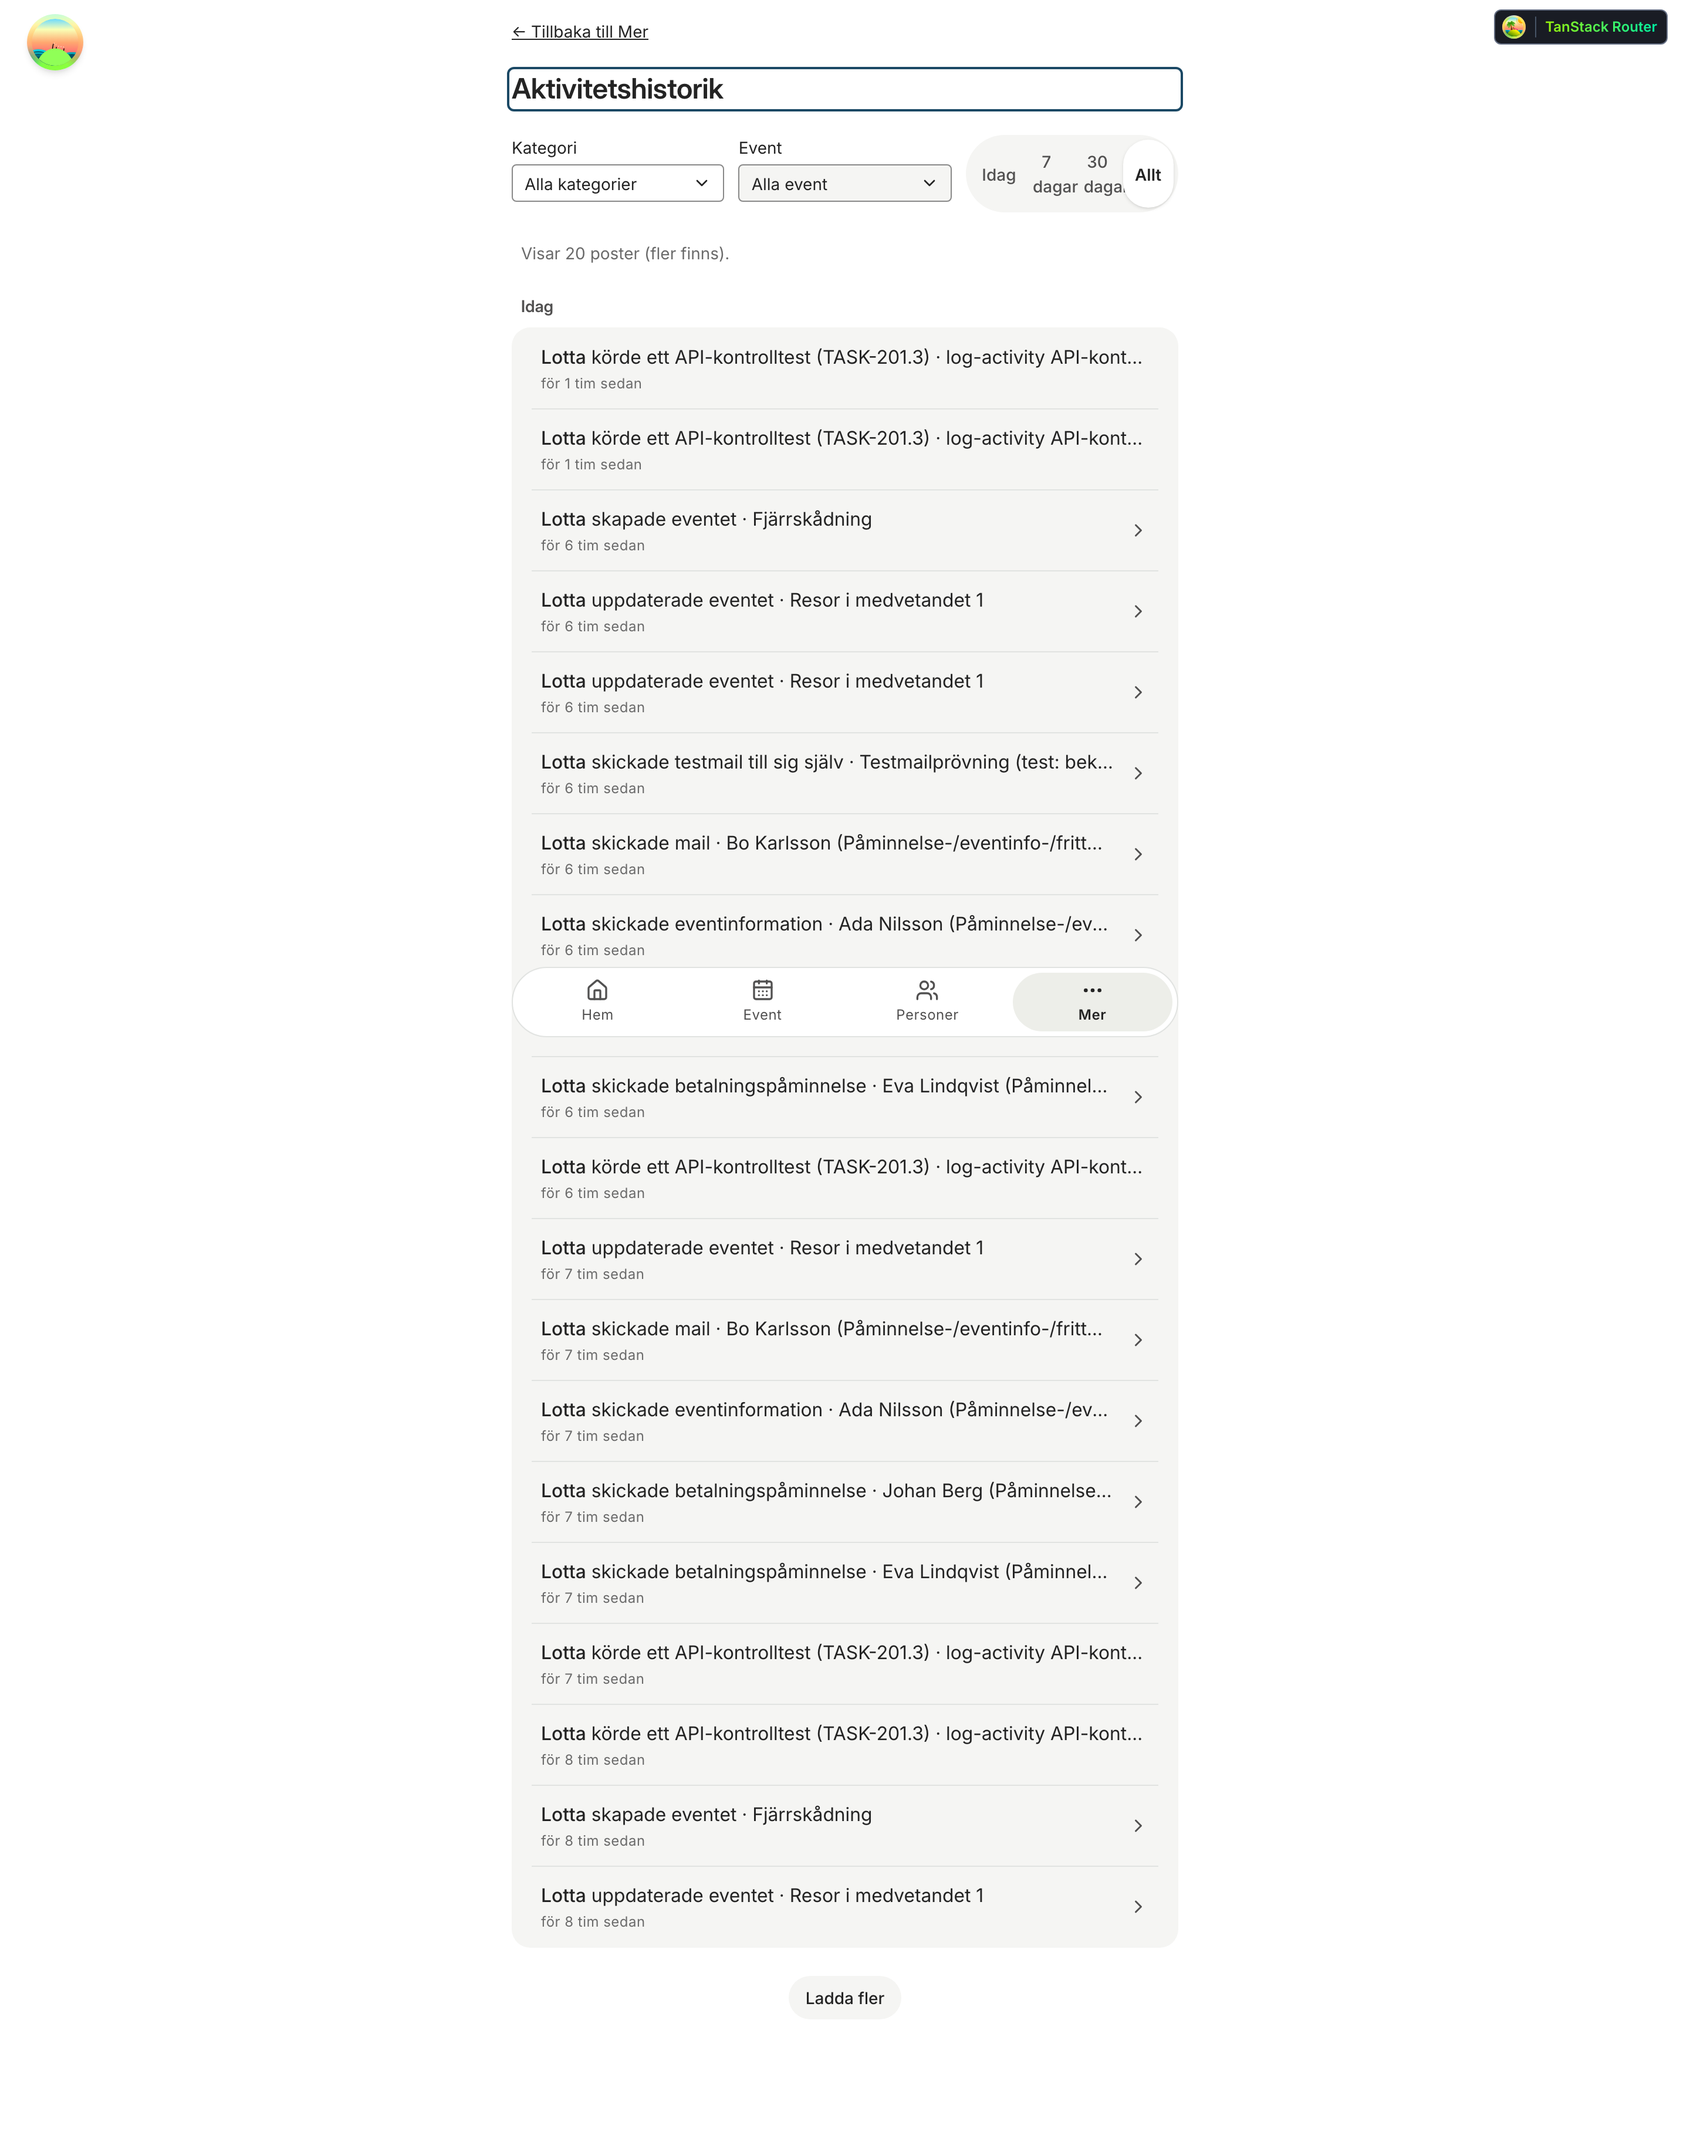
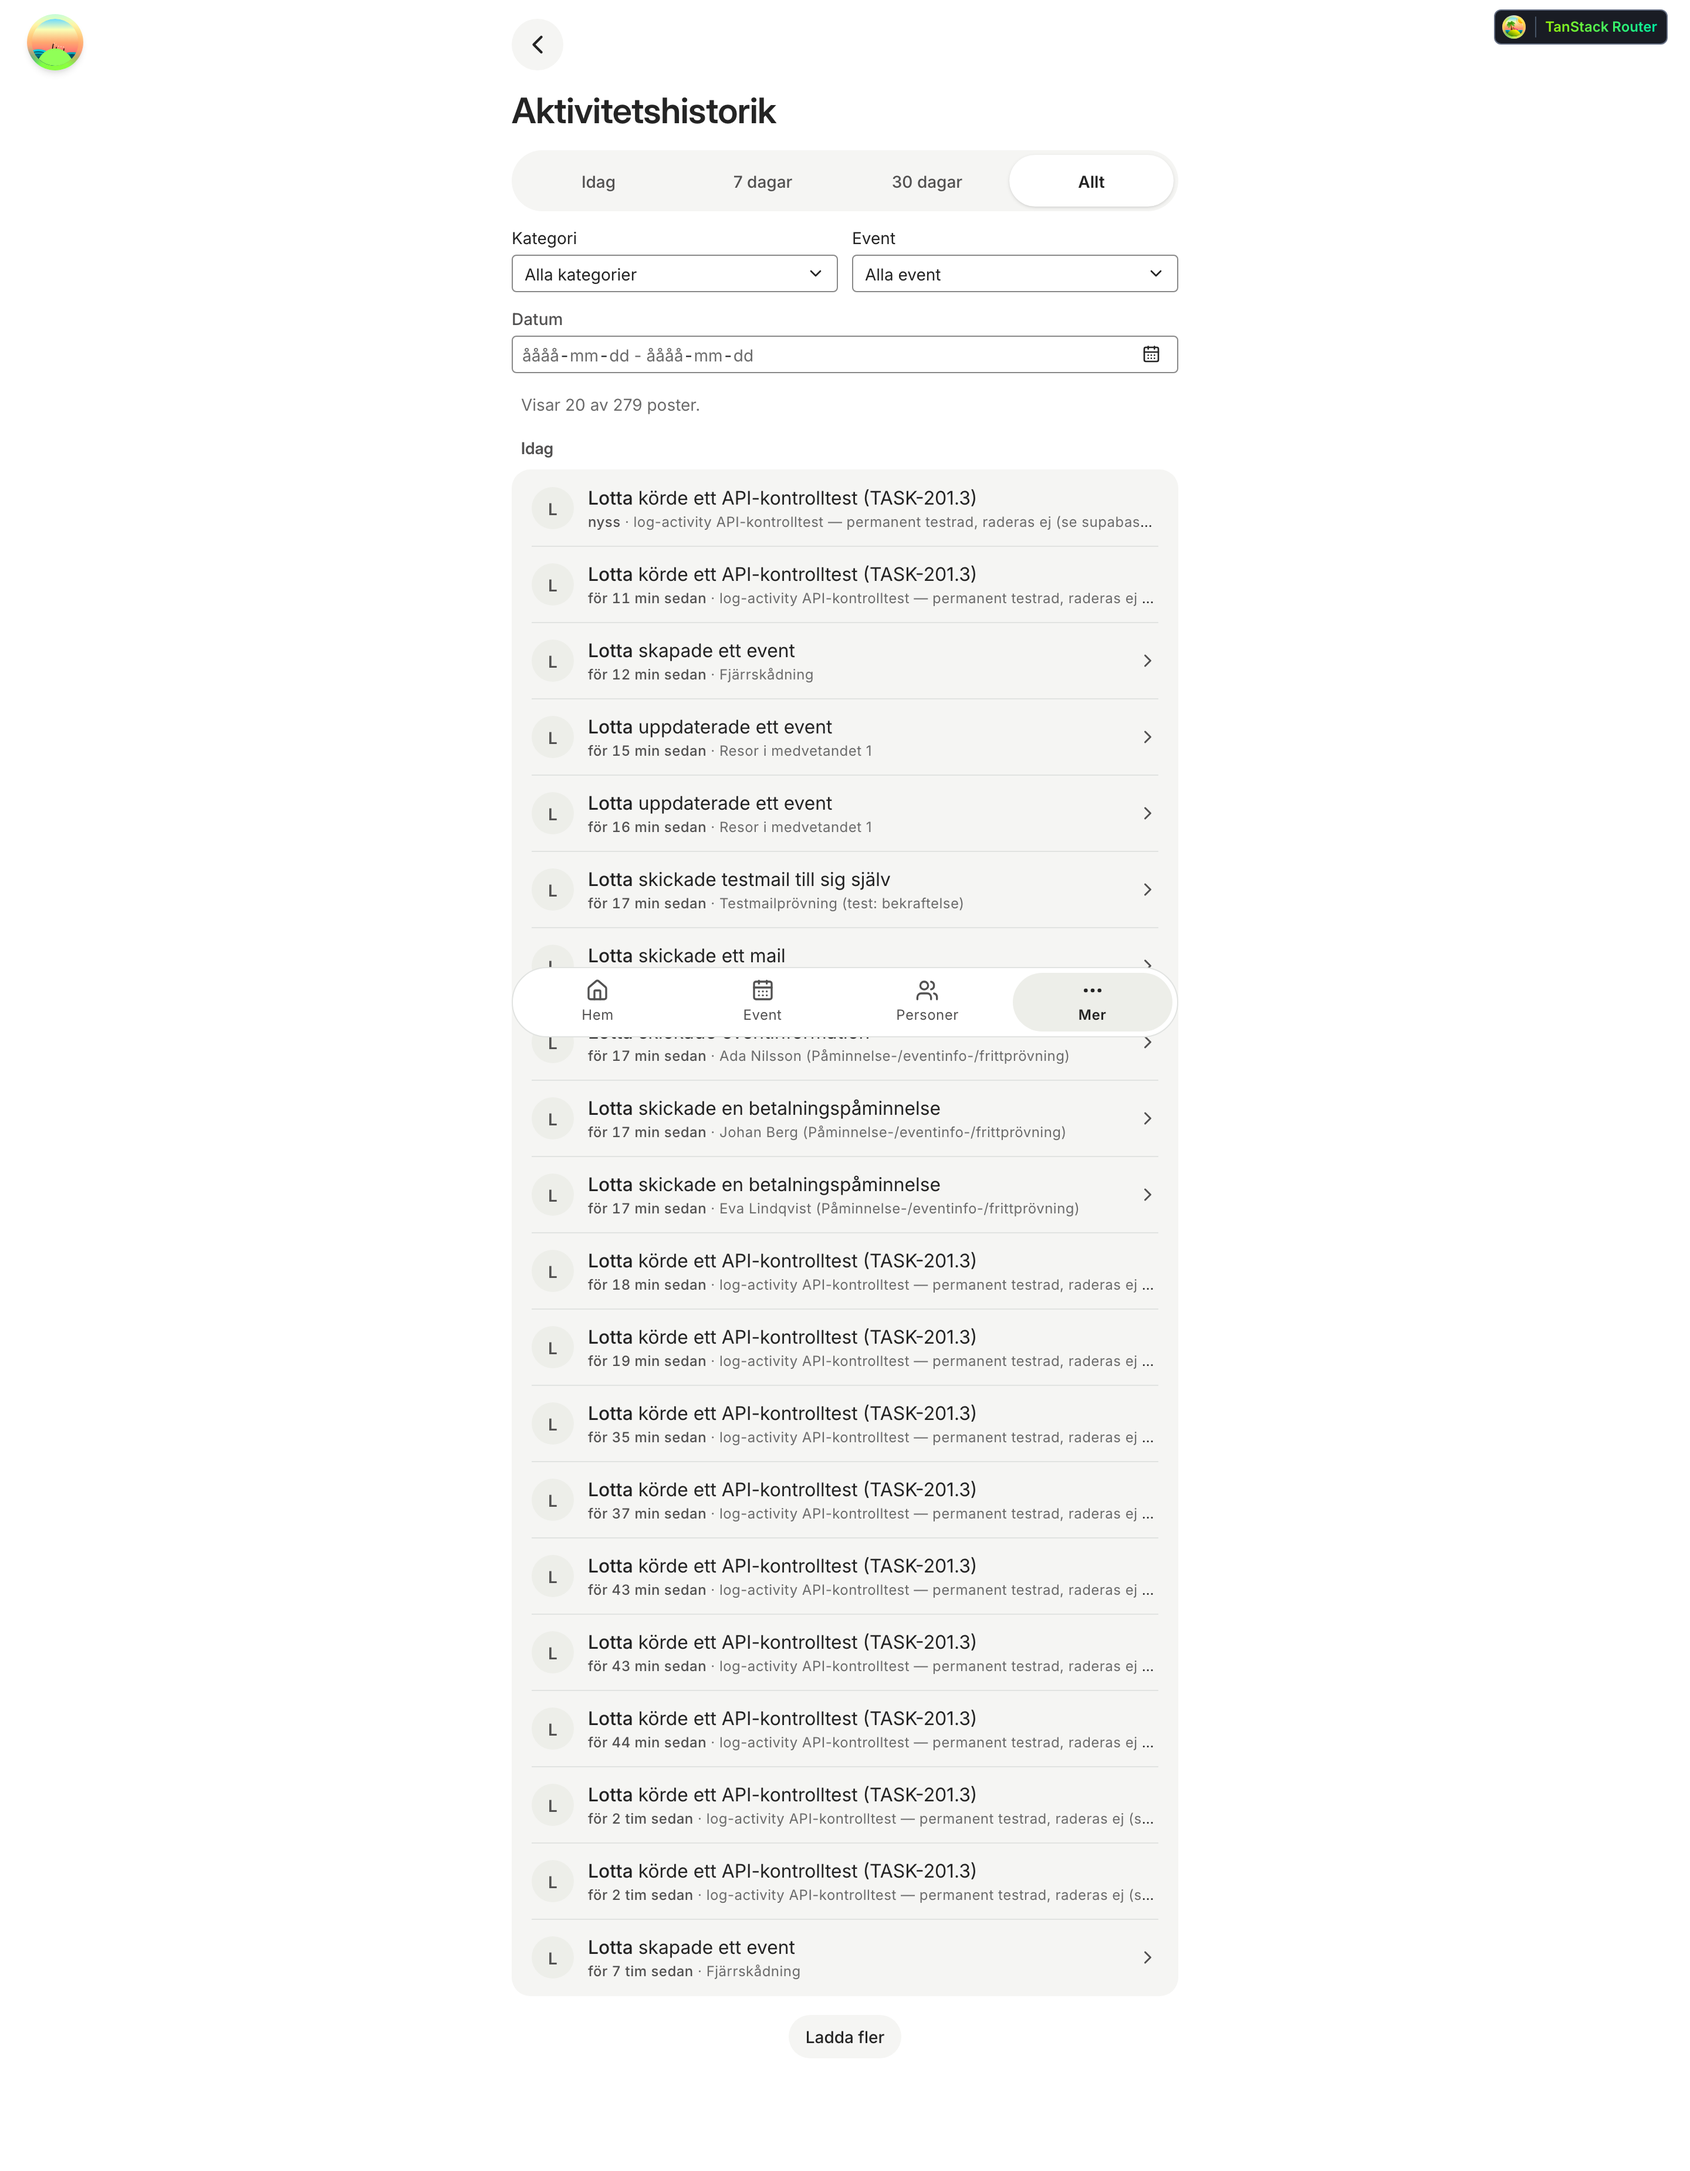
feat: [TASK-225.2] EF-totalen — statusraden visar 'Visar N av TOTAL poster'
Additivt total-fält (exakt head-count på samma filter, minus cursor) +
skew-säker klient (äldre EF-deploy → interimsformen, aldrig NaN).
Staging-deployad och live-bevisad: 'Visar 20 av 279 poster.'
Inkluderar import-ordningsfixen som fällde Biome i CI (sed-ompekningen).

diff --git a/src/components/aktivitetshistorik/AktivitetsHistorik.tsx b/src/components/aktivitetshistorik/AktivitetsHistorik.tsx
@@ -788,6 +788,10 @@ export function AktivitetsHistorik() {
   const nuMs = Date.now();
   const grupper = grupperaPerDag(statements, nuMs);
   const total = statements.length;
+  // TASK-225.2: filtermängdens totalantal ur SENASTE sidan (EF:en räknar om
+  // per anrop — färskast vinner). `undefined` mot en äldre EF-deploy utan
+  // fältet → statusraden faller till interimsformen (skew-säkert).
+  const totalAntal = data?.pages.at(-1)?.total;
 
   return (
     <div className="flex flex-col gap-4" data-testid="aktivitetshistorik-yta">
@@ -871,14 +875,15 @@ export function AktivitetsHistorik() {
             aria-live="polite"
             className="px-2 text-small text-text-muted"
           >
-            {/* S106-passet, steg 3 — BYGGKRAV BOKFÖRT: målformen är
-                "Visar 20 av 347" (Marcus 2026-08-15), men get-activity-log
-                returnerar bara {statements, nextCursor} — ingen total.
-                EF-utökning (Supabase `count: 'exact'` på samma filtrerade
-                query) är leverans-materia och tas i TASK-225.2;
-                detta är den ärliga interimsformen tills totalen finns. */}
+            {/* TASK-225.2 — MÅLFORMEN (Marcus 2026-08-15): "Visar N av
+                TOTAL poster." när fler finns, "Visar alla N poster." när
+                allt är laddat. Interimsformen står kvar som SKEW-FALLBACK:
+                mot en äldre EF-deploy utan total-fältet visas den i stället
+                för NaN (Vercel Skew-klassen). */}
             {hasNextPage
-              ? `Visar de ${total} senaste posterna · fler finns.`
+              ? totalAntal != null
+                ? `Visar ${total} av ${totalAntal} poster.`
+                : `Visar de ${total} senaste posterna · fler finns.`
               : `Visar alla ${total} ${total === 1 ? 'post' : 'poster'}.`}
           </p>
 

diff --git a/supabase/functions/get-activity-log/index.ts b/supabase/functions/get-activity-log/index.ts
@@ -233,9 +233,30 @@ Deno.serve(async (req) => {
       );
     }
 
-    const { data, error } = await query;
+    // TASK-225.2: totalen för HELA filtermängden — samma filter som
+    // huvudqueryn men UTAN cursor (cursorn skär mängden per sida, totalen
+    // avser mängden) och utan rader (head-count, `count: 'exact'` — exakt
+    // radräkning i Postgres, billig mot indexerade occurred_at-filter).
+    // ADDITIVT svarsfält: befintliga konsumenter läser {statements,
+    // nextCursor} och är obrutna.
+    let countQuery = supabaseAdmin
+      .from(TABLE_NAME)
+      .select('id', { count: 'exact', head: true });
+    if (category) countQuery = countQuery.eq('object_type', category);
+    if (rawFrom) countQuery = countQuery.gte('occurred_at', rawFrom);
+    if (rawTo) countQuery = countQuery.lte('occurred_at', rawTo);
+    if (eventId) {
+      countQuery = countQuery.contains('statement', {
+        context: { extensions: { [EVENT_ID_EXTENSION_IRI]: eventId } },
+      });
+    }
+
+    const [{ data, error }, { count, error: countError }] = await Promise.all([query, countQuery]);
     if (error) {
       throw new Error(`activity_log query failed: ${error.message}`);
+    }
+    if (countError) {
+      throw new Error(`activity_log count failed: ${countError.message}`);
     }
 
     const rows = (data ?? []) as { id: string; occurred_at: string; statement: unknown }[];
@@ -245,7 +266,7 @@ Deno.serve(async (req) => {
       hasNextPage && page.length > 0 ? buildCursor(page[page.length - 1]) : null;
 
     return new Response(
-      JSON.stringify({ statements: page.map((row) => row.statement), nextCursor }),
+      JSON.stringify({ statements: page.map((row) => row.statement), nextCursor, total: count ?? 0 }),
       { headers: { ...corsHeaders, 'Content-Type': 'application/json' } },
     );
   } catch (error) {

diff --git a/tests/acceptance/mer-aktivitetshistorik.acceptance.test.ts b/tests/acceptance/mer-aktivitetshistorik.acceptance.test.ts
@@ -144,7 +144,7 @@ function mockActivityLog(
   network: NetworkFixture,
   respond: (
     url: URL,
-  ) => { statements: Statement[]; nextCursor: string | null } | { status: number },
+  ) => { statements: Statement[]; nextCursor: string | null; total?: number } | { status: number },
 ): void {
   network.use(
     http.get(EF('get-activity-log'), ({ request }) => {
@@ -352,17 +352,20 @@ test.describe('Aktivitetshistoriken — kärnvyn (TASK-201.6, A-formen)', () => 
     ];
     const sida2 = [statement({ objectName: 'Post 3', timestamp: minuterSedan(3) })];
 
+    // TASK-225.2: EF:en bär `total` — statusraden visar målformen
+    // "Visar N av TOTAL". Övriga tester mockar UTAN total och bevisar
+    // därmed skew-fallbacken (interimsformen) mot en äldre EF-deploy.
     mockActivityLog(network, (url) => {
       const cursor = url.searchParams.get('cursor');
-      if (!cursor) return { statements: sida1, nextCursor: 'c1' };
-      if (cursor === 'c1') return { statements: sida2, nextCursor: null };
-      return { statements: [], nextCursor: null };
+      if (!cursor) return { statements: sida1, nextCursor: 'c1', total: 3 };
+      if (cursor === 'c1') return { statements: sida2, nextCursor: null, total: 3 };
+      return { statements: [], nextCursor: null, total: 3 };
     });
 
     await page.goto('/mer/aktivitetshistorik');
     const loadMore = page.getByRole('button', { name: 'Ladda fler' });
 
-    await expect(page.getByText('Visar de 2 senaste posterna · fler finns.')).toBeVisible();
+    await expect(page.getByText('Visar 2 av 3 poster.')).toBeVisible();
     await expect(loadMore).toBeVisible();
 
     await loadMore.click();

diff --git a/src/data/adapters/AirtableAdapter.ts b/src/data/adapters/AirtableAdapter.ts
@@ -732,13 +732,20 @@ export class AirtableAdapter implements DataSourceAdapter {
     if (params?.cursor) query.cursor = params.cursor;
     if (params?.pageSize) query.pageSize = String(params.pageSize);
 
-    const data = await callEdgeFunction<{ statements: unknown; nextCursor: string | null }>(
-      'get-activity-log',
-      Object.keys(query).length > 0 ? query : undefined,
-    );
+    const data = await callEdgeFunction<{
+      statements: unknown;
+      nextCursor: string | null;
+      total?: unknown;
+    }>('get-activity-log', Object.keys(query).length > 0 ? query : undefined);
     return {
       statements: z.array(ActivityStatementSchema).parse(data.statements),
       nextCursor: data.nextCursor ?? null,
+      // TASK-225.2 — additivt och skew-säkert: fältet valideras defensivt
+      // och utelämnas mot en äldre EF-deploy (klienten faller till
+      // interimsformen i statusraden, aldrig NaN).
+      ...(typeof data.total === 'number' && Number.isFinite(data.total)
+        ? { total: data.total }
+        : {}),
     };
   }
 }

diff --git a/src/components/events/detail/OmEventet.tsx b/src/components/events/detail/OmEventet.tsx
@@ -2,13 +2,13 @@ import { type CalendarDate, parseDate } from '@internationalized/date';
 import { useEffect, useRef, useState } from 'react';
 import { I18nProvider } from 'react-aria-components';
 import { Button } from '@/components/primitives/Button';
+import { DatumFalt } from '@/components/primitives/DatumFalt';
 import { Input } from '@/components/primitives/Input';
 import { MessageBox } from '@/components/primitives/MessageBox';
 import { Select, SelectItem } from '@/components/primitives/Select';
 import { useUpdateEvent } from '@/data/mutations/useUpdateEvent';
 import type { Event } from '@/domain/models/Event';
 import { EventStatus } from '@/domain/types/Status';
-import { DatumFalt } from '@/components/primitives/DatumFalt';
 import { AndraRad, DetaljGrupp, EtikettVardeRad, RedigeringsRad } from './DetaljGrupp';
 import { datumSpannText } from './datumSpann';
 

diff --git a/src/components/event/CreateEventForm.tsx b/src/components/event/CreateEventForm.tsx
@@ -5,9 +5,9 @@ import { ChevronLeft } from 'lucide-react';
 import { useEffect, useMemo, useRef, useState } from 'react';
 import { I18nProvider } from 'react-aria-components';
 import { AntalFalt } from '@/components/events/detail/AntalFalt';
-import { DatumFalt } from '@/components/primitives/DatumFalt';
 import { DetaljGrupp } from '@/components/events/detail/DetaljGrupp';
 import { Button } from '@/components/primitives/Button';
+import { DatumFalt } from '@/components/primitives/DatumFalt';
 import { Input } from '@/components/primitives/Input';
 import { MessageBox } from '@/components/primitives/MessageBox';
 import { Select, SelectItem } from '@/components/primitives/Select';

diff --git a/src/domain/types/Pagination.ts b/src/domain/types/Pagination.ts
@@ -48,4 +48,11 @@ export interface ActivityLogParams extends ActivityLogFilters {
 export interface ActivityLogPage {
   statements: ActivityStatement[];
   nextCursor: string | null;
+  /**
+   * Totalantal poster i HELA filtermängden (TASK-225.2, statusradens
+   * "Visar 20 av 347"). VALFRITT med avsikt — skew-säkert: en klient mot en
+   * äldre EF-deploy utan fältet faller till interimsformen, aldrig en krasch
+   * (Vercel Skew-klassen, S105 C-listan).
+   */
+  total?: number;
 }
